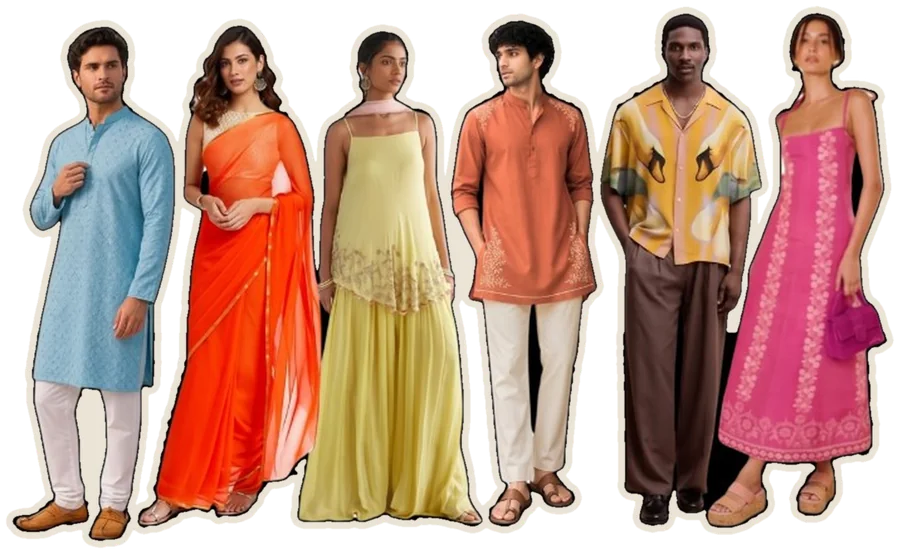
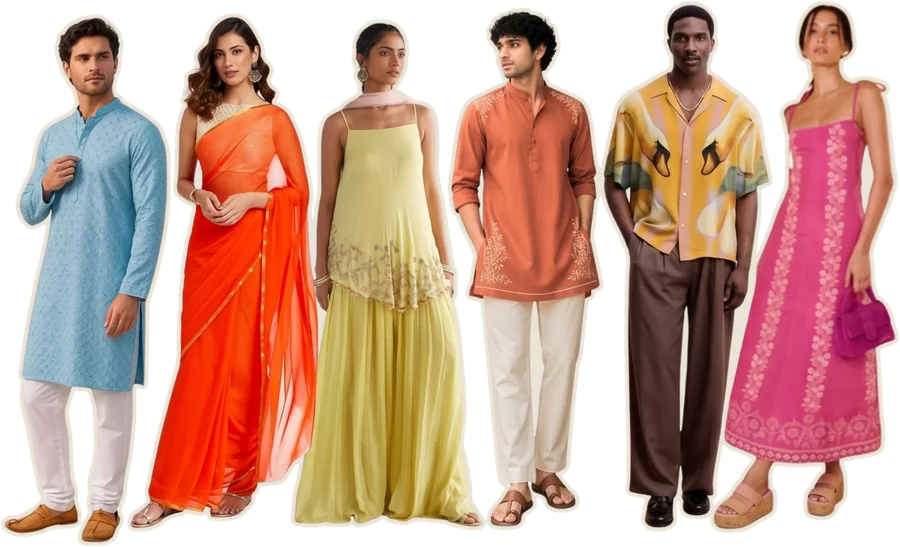
Ganesh Puja & Haldi outfits from clean cutout with matching border

diff --git a/index.html b/index.html
@@ -982,7 +982,7 @@ picture{margin-block:clamp(52px,8vw,104px);}
 </article>
 <article class="leg" data-tab="Ganesh Puja &amp; Haldi">
 <div class="leg-body">
-<picture><source srcset="img/look-haldi-sm.webp?v=4 900w, img/look-haldi.webp?v=4 1420w" sizes="(max-width:760px) 100vw, 44rem" type="image/webp"><img src="img/look-haldi.png?v=4" width="900" height="554" decoding="async" alt="Six guests in playful Indo-western outfits in bright, solid colors."></picture>
+<picture><source srcset="img/look-haldi-sm.webp?v=5 900w, img/look-haldi.webp?v=5 1826w" sizes="(max-width:760px) 100vw, 44rem" type="image/webp"><img src="img/look-haldi.png?v=5" width="900" height="547" decoding="async" alt="Six guests in playful Indo-western outfits in bright, solid colors."></picture>
 <ul class="swatches" aria-label="Suggested colors"><li style="--c:#D94678"></li><li style="--c:#F46860"></li><li style="--c:#F57E59"></li><li style="--c:#DFAA50"></li><li style="--c:#D8D086"></li><li style="--c:#B4EF90"></li><li style="--c:#75D9DF"></li><li style="--c:#4981FD"></li></ul>
 <p class="when">Semi-Formal Western or Indian</p>
 <ul class="gems"><li>Playful Indo-western outfits.</li><li>Bright, solid colors encouraged. Dress for sunshine!</li><li>Wear shoes you feel comfy walking in. Avoid stiletto heels.</li></ul>
